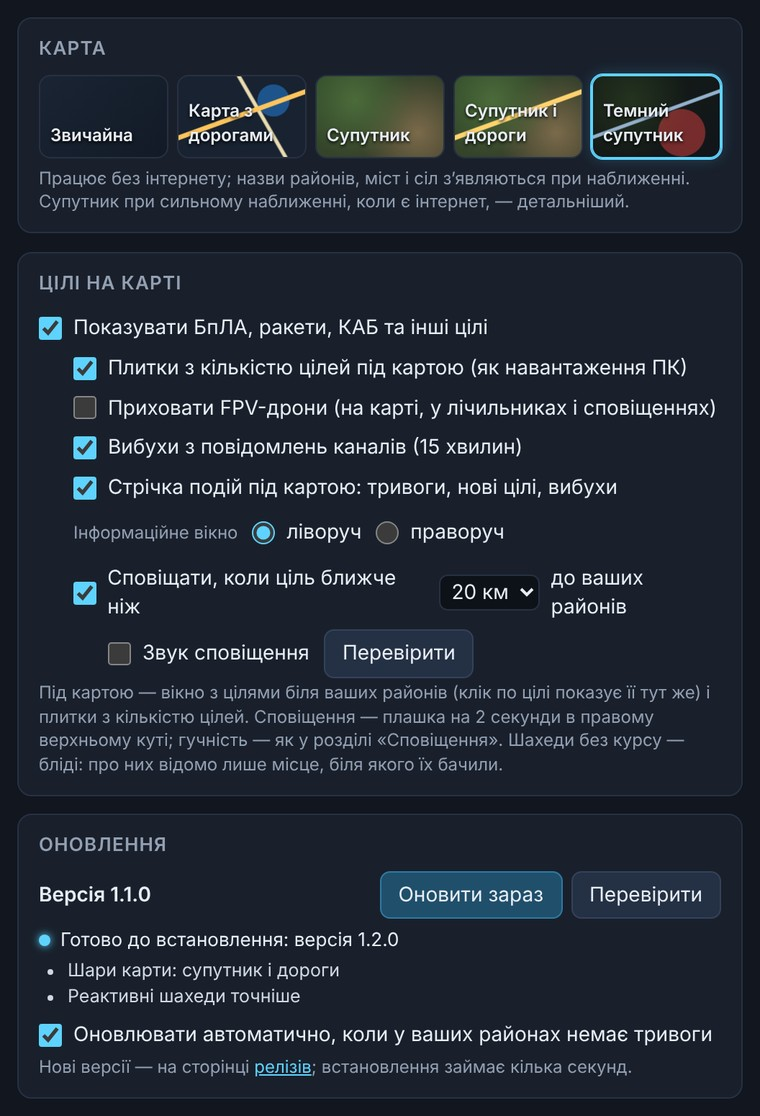
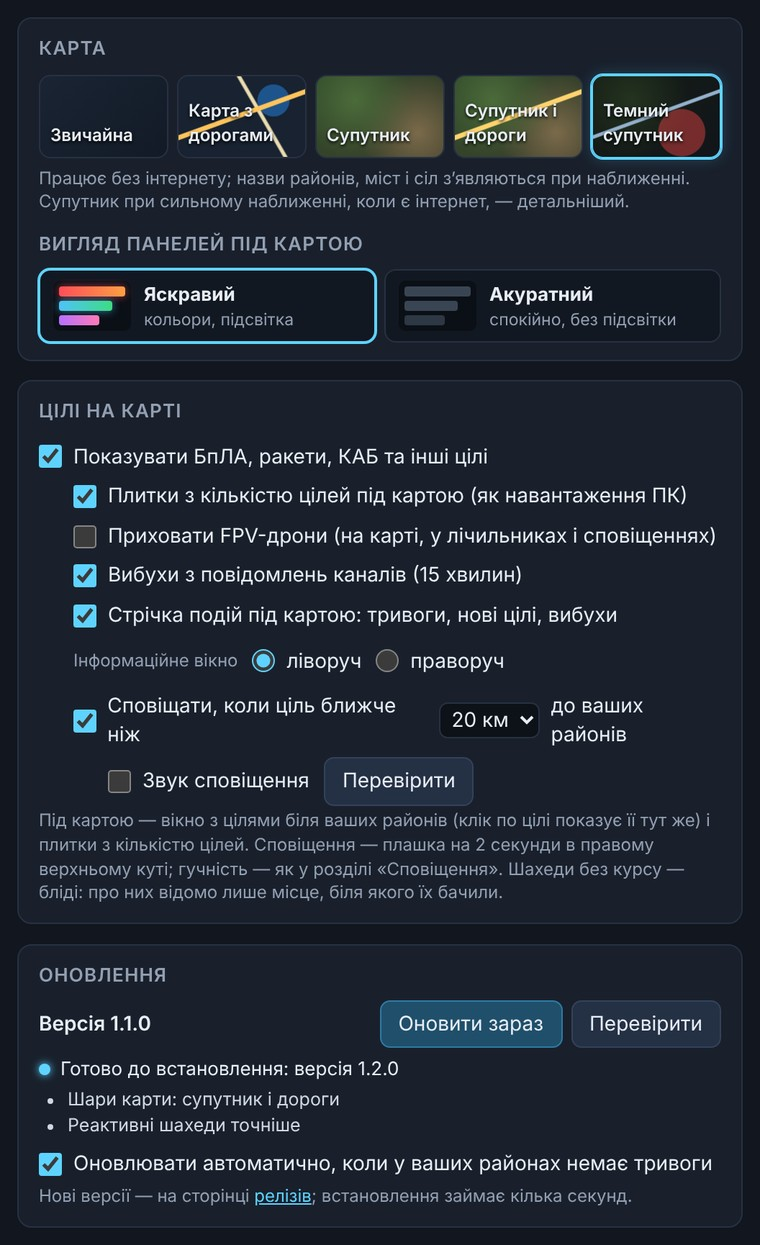
Panels under the map: "Яскравий" or "Акуратний" look
A new choice in Settings → Карта: the bright HUD as before, or a calm one —
one quiet font, flat panels without glow, gradients or coloured edges, white
numbers, one line colour in the sparklines; colour is left to the status
dots, an alert, a high risk and a target close by. Applies to the info
window, the count tiles, the PC tiles, the events line and the tooltips.
Setting neptun.style = 'bright' | 'calm'.

Claude-Session: https://claude.ai/code/session_015jB7h2nFuFP4EwWEfuxPCM

Changed region(s): [[0.0303, 0.0609, 0.9684, 0.9749], [0.0605, 0.0305, 0.1513, 0.0609]]

diff --git a/app/neptun/settings.js b/app/neptun/settings.js
@@ -3,7 +3,11 @@
 // Options are kept in settings.json under
 //   "neptun": { markers, panel, hideFpv, alert, alertKm, alertSound, cardSide, basemap }.
 (function () {
-  const DEFAULTS = { markers: true, panel: true, hideFpv: false, alert: true, alertKm: 20, alertSound: false, cardSide: 'left', basemap: 'none', booms: true, ticker: true };
+  const DEFAULTS = { markers: true, panel: true, hideFpv: false, alert: true, alertKm: 20, alertSound: false, cardSide: 'left', basemap: 'none', booms: true, ticker: true, style: 'bright' };
+  const STYLES = [
+    ['bright', 'Яскравий', 'кольори, підсвітка'],
+    ['calm', 'Акуратний', 'спокійно, без підсвітки'],
+  ];
   const RADII = [5, 10, 20, 50];
   const BASEMAPS = [
     ['none', 'Звичайна'],
@@ -18,7 +22,9 @@
     <h2>Карта</h2>
     <div class="nep-bm">${BASEMAPS.map(([v, t]) => `<label class="nep-bm-${v}"><input type="radio" name="nep-basemap" value="${v}"><span>${t}</span></label>`).join('')}</div>
     <div class="hint">Працює без інтернету; назви районів, міст і сіл з’являються при наближенні. Супутник при сильному
-      наближенні, коли є інтернет, — детальніший.</div>`;
+      наближенні, коли є інтернет, — детальніший.</div>
+    <h2 style="margin-top:12px">Вигляд панелей під картою</h2>
+    <div class="nep-st">${STYLES.map(([v, t, sub]) => `<label class="nep-st-${v}"><input type="radio" name="nep-style" value="${v}"><span class="pv"><i></i><i></i><i></i></span><b>${t}</b><small>${sub}</small></label>`).join('')}</div>`;
   const bmCss = document.createElement('style');
   bmCss.textContent = `
     .nep-bm { display: grid; grid-template-columns: repeat(5, 1fr); gap: 6px; margin-bottom: 6px; }
@@ -27,6 +33,21 @@
     .nep-bm input { position: absolute; opacity: 0; }
     .nep-bm label:has(input:checked) { border-color: var(--accent); box-shadow: 0 0 0 1px var(--accent), 0 0 10px rgba(95,211,255,.25); }
     .nep-bm-none { background: linear-gradient(135deg, #1a2433, #121a26); }
+    .nep-st { display: grid; grid-template-columns: 1fr 1fr; gap: 6px; }
+    .nep-st label { position: relative; display: grid; grid-template-columns: 54px 1fr; grid-template-rows: auto auto; column-gap: 9px;
+      align-items: center; padding: 7px 9px; border-radius: 8px; border: 1px solid var(--line); background: #121822; cursor: pointer; }
+    .nep-st input { position: absolute; opacity: 0; }
+    .nep-st label:has(input:checked) { border-color: var(--accent); box-shadow: 0 0 0 1px var(--accent); }
+    .nep-st .pv { grid-row: span 2; display: flex; flex-direction: column; gap: 3px; padding: 4px; border-radius: 5px; background: #0b1017; }
+    .nep-st .pv i { height: 7px; border-radius: 2px; }
+    .nep-st b { font-size: 13px; }
+    .nep-st small { color: var(--muted); font-size: 11.5px; }
+    .nep-st-bright .pv i:nth-child(1) { background: linear-gradient(90deg, #ff4d57, #ff9f43); box-shadow: 0 0 6px rgba(255,77,87,.6); }
+    .nep-st-bright .pv i:nth-child(2) { background: linear-gradient(90deg, #4fc3f7, #3ddc84); box-shadow: 0 0 6px rgba(79,195,247,.6); width: 80%; }
+    .nep-st-bright .pv i:nth-child(3) { background: linear-gradient(90deg, #b670ff, #ff7ab6); width: 60%; }
+    .nep-st-calm .pv i { background: #3a4554; }
+    .nep-st-calm .pv i:nth-child(2) { width: 80%; }
+    .nep-st-calm .pv i:nth-child(3) { width: 60%; background: #2e3744; }
     .nep-bm-map { background: linear-gradient(160deg, transparent 46%, #ffc45c 47% 50%, transparent 51%), linear-gradient(60deg, transparent 60%, #eadcb0 61% 62.5%, transparent 63.5%), radial-gradient(circle at 75% 30%, #1e548c 0 14%, transparent 15%), #182231; }
     .nep-bm-sat { background: radial-gradient(circle at 30% 30%, #4b6b3a, transparent 55%), radial-gradient(circle at 80% 70%, #7a6a4a, transparent 50%), linear-gradient(135deg, #2f4a2a, #3b3a2a); }
     .nep-bm-dark { background: linear-gradient(160deg, transparent 46%, #93b0cc 47% 49%, transparent 50%), radial-gradient(circle at 70% 70%, rgba(239,68,68,.45) 0 22%, transparent 23%), radial-gradient(circle at 30% 30%, #24331f, transparent 55%), linear-gradient(135deg, #161d16, #11151a); }
@@ -62,6 +83,7 @@
   document.querySelector('main').insertBefore(section, before || null);
   document.querySelector('main').insertBefore(mapSection, section);
   const basemaps = [...mapSection.querySelectorAll('input[name=nep-basemap]')];
+  const styles = [...mapSection.querySelectorAll('input[name=nep-style]')];
 
   const q = (id) => section.querySelector('#nep-' + id);
   const checks = ['markers', 'panel', 'hideFpv', 'booms', 'ticker', 'alert', 'alertSound'];
@@ -85,6 +107,7 @@
     km.value = String(RADII.includes(current.alertKm) ? current.alertKm : DEFAULTS.alertKm);
     for (const r of sides) r.checked = r.value === current.cardSide;
     for (const r of basemaps) r.checked = r.value === current.basemap;
+    for (const r of styles) r.checked = r.value === current.style;
     sync();
   }
 
@@ -98,6 +121,7 @@
   km.addEventListener('change', () => save({ alertKm: Number(km.value) }));
   for (const r of sides) r.addEventListener('change', () => save({ cardSide: r.value }));
   for (const r of basemaps) r.addEventListener('change', () => save({ basemap: r.value }));
+  for (const r of styles) r.addEventListener('change', () => save({ style: r.value }));
 
   q('test').addEventListener('click', () => {
     if (!window.bridge.neptun) return;

diff --git a/app/neptun/widget.css b/app/neptun/widget.css
@@ -470,3 +470,78 @@ body.no-labels #nep-base-names { display: none; }
 #nep-ticker .tk-it b { font-weight: 600; color: color-mix(in srgb, var(--c) 55%, #fff); }
 #nep-ticker .tk-it em { font-style: normal; color: var(--h-steel); }
 #nep-ticker .tk-it.quiet { color: var(--h-steel); }
+
+/* ---------- "Акуратний" style of everything under the map (settings: neptun.style = 'calm') ----------
+   One quiet font, flat panels, no glow, gradients or coloured edges; colour is left to the status dots,
+   an alert and a target close by. */
+body.nep-calm {
+  --h-num: 'Fira Sans Condensed', 'Segoe UI', sans-serif;
+  --h-line: rgba(255, 255, 255, 0.08);
+  --calm-panel: rgba(13, 17, 24, 0.84);
+  --calm-ink: #e3e9f0;
+  --calm-text: #c4cdd8;
+}
+body.nep-calm .h-pan {
+  background: var(--calm-panel);
+  box-shadow: 0 4px 14px rgba(0, 0, 0, 0.28);
+  backdrop-filter: blur(8px);
+}
+body.nep-calm .nep-region, body.nep-calm .nep-targets { box-shadow: 0 4px 14px rgba(0, 0, 0, 0.28); }
+body.nep-calm .nep-region .h-head, body.nep-calm .nep-targets .h-head { background: none; }
+body.nep-calm .h-head .h-ico, body.nep-calm .nep-region .h-head > .h-ico, body.nep-calm .nep-targets .h-head > .h-ico { color: var(--h-steel); }
+body.nep-calm .h-title { font-weight: 600; font-size: 12.5px; letter-spacing: 0; }
+body.nep-calm .h-count { background: rgba(255, 255, 255, 0.1); color: var(--calm-ink); font-weight: 600; }
+body.nep-calm .nep-targets[data-near='1'] .h-count { background: rgba(255, 159, 67, 0.22); color: #ffc58f; }
+body.nep-calm .h-live i.live { box-shadow: none; }
+
+/* badges: plain values with a grey icon */
+body.nep-calm .h-b {
+  --bc: var(--calm-text);
+  background: transparent;
+  border-color: rgba(255, 255, 255, 0.09);
+  color: var(--calm-text);
+  font-weight: 500;
+}
+body.nep-calm .h-b .h-ico { color: var(--h-steel); }
+body.nep-calm .h-b small { color: var(--h-steel); }
+body.nep-calm .h-st { color: var(--calm-ink); background: transparent; border-color: rgba(255, 255, 255, 0.09); }
+body.nep-calm .h-st::before { box-shadow: none; }
+body.nep-calm .h-st.hit, body.nep-calm .h-st.alert { color: #ff8a8f; }
+body.nep-calm .h-b.jet { color: #ff9a8a; }
+body.nep-calm .h-b.note { color: var(--calm-text); }
+
+/* entries: a thin red edge only for a target that is a real risk */
+body.nep-calm .h-ent { border-left-color: transparent; }
+body.nep-calm .h-ent.r2 { border-left: 2px solid rgba(255, 77, 87, 0.75); }
+body.nep-calm .h-ent:hover { background: rgba(255, 255, 255, 0.04); transform: none; }
+body.nep-calm .h-ent-ico { background: transparent; border-color: rgba(255, 255, 255, 0.1); color: color-mix(in srgb, var(--c) 55%, #9aa7b8); }
+body.nep-calm .h-ent-name, body.nep-calm .h-v .h-tname { color: var(--calm-ink); }
+body.nep-calm .h-ent-name em { color: var(--calm-text); }
+body.nep-calm .h-risk .seg i { box-shadow: none !important; }
+body.nep-calm .h-risk.l0 { --rc: #8fd4a8; }
+body.nep-calm .h-risk.l1 { --rc: #e8cf7a; }
+
+/* count tiles and the PC tiles: flat, white numbers, one quiet line colour */
+body.nep-calm .nep-tile, body.nep-calm #sys > .tile {
+  border: 1px solid rgba(255, 255, 255, 0.07);
+  background: var(--calm-panel);
+  box-shadow: 0 3px 10px rgba(0, 0, 0, 0.25);
+}
+body.nep-calm .nep-tile:hover, body.nep-calm #sys > .tile:hover { transform: none; box-shadow: 0 3px 10px rgba(0, 0, 0, 0.25); border-color: rgba(255, 255, 255, 0.16); }
+body.nep-calm .nep-tn, body.nep-calm #sys .tile .v { color: var(--calm-ink); text-shadow: none; font-weight: 600; }
+body.nep-calm .nep-tn { font-size: 17px; }
+body.nep-calm .nep-tl .h-ico { color: var(--h-steel); }
+body.nep-calm .nep-spark, body.nep-calm #sys .tile .spark { border-color: rgba(255, 255, 255, 0.08); background: rgba(0, 0, 0, 0.22); }
+body.nep-calm .nep-spark .area, body.nep-calm #sys .tile .spark .area { fill: rgba(143, 180, 216, 0.18); }
+body.nep-calm .nep-spark .line, body.nep-calm #sys .tile .spark .line, body.nep-calm #sys .tile .spark .line2 { stroke: #8fb4d8; }
+body.nep-calm .nep-tile.hot { animation: none; border-color: rgba(255, 159, 67, 0.45); }
+body.nep-calm .nep-tile.hot .nep-tn { color: #ffc58f; }
+body.nep-calm #sys .tile.hot .v { color: #ff8a8f; }
+
+/* events line and tooltips */
+body.nep-calm #nep-ticker .tk-head i { box-shadow: none; animation: none; }
+body.nep-calm #nep-ticker .tk-it i { box-shadow: none; width: 6px; height: 6px; }
+body.nep-calm #nep-ticker .tk-it b { color: var(--calm-ink); }
+body.nep-calm #nep-tip { border-left-color: rgba(255, 255, 255, 0.18) !important; }
+body.nep-calm #nep-tip .tt-sr b { color: #a9c7e2; }
+body.nep-calm .nep-targets .h-title { color: var(--calm-ink) !important; }

diff --git a/app/neptun/widget.js b/app/neptun/widget.js
@@ -12,7 +12,7 @@
   const ipc = bridge.neptun || null; // preload.js hook; without it there is no banner
   // Projection of app/assets/map.json (see build/make-map.js), for a map.json without "proj".
   const DEFAULT_PROJ = { lat1: 45, lat2: 51, lat0: 48.5, lon0: 31.5, x0: -690178, y1: 432316, k: 0.000755630581276381 };
-  const DEFAULTS = { markers: true, panel: true, hideFpv: false, alert: true, alertKm: 20, alertSound: false, cardSide: 'left', booms: true, ticker: true };
+  const DEFAULTS = { markers: true, panel: true, hideFpv: false, alert: true, alertKm: 20, alertSound: false, cardSide: 'left', booms: true, ticker: true, style: 'bright' };
   const BADGE_PX = 9; // marker radius on screen
   const CLUSTER_PX = 15; // markers closer than this on screen become one "×N" marker
   const EDGE_PAD_PX = 13; // targets beyond the visible map are pinned this far inside its edge
@@ -1452,6 +1452,7 @@
   function applySettings(s) {
     const prev = opts;
     opts = { ...DEFAULTS, ...((s && s.neptun) || {}) };
+    document.body.classList.toggle('nep-calm', opts.style === 'calm'); // "Акуратний" look under the map
     if (s && Number.isFinite(s.volume)) volume = s.volume;
     mine = ((s && s.regions) || []).map((uid) => shapeIndex.get(Number(uid))).filter(Boolean);
     const zoomBar = $('nep-zoom');

diff --git a/README.md b/README.md
@@ -26,7 +26,7 @@
 | 🎯 **Що біля вас** | Під картою вікно з цілями поруч із вашими районами: відстань, напрямок, ETA і ризик. Клік по цілі відкриває її картку. |
 | 🔔 **Тихі сповіщення** | Плашка на 2 секунди при тривозі, відбої та коли ціль ближче ніж 5 / 10 / 20 / 50 км. Напівпрозора, крізь неї проходять кліки, звук за бажанням. |
 | 🛰 **Супутник і дороги** | П’ять підкладок: звичайна, карта з дорогами, супутник, супутник із дорогами, темний супутник. Працюють **без інтернету**. Зум до 40× кнопками, колесом і тачпадом. При наближенні з’являються назви районів, міст і сіл, а з інтернетом — детальний супутник. |
-| 📊 **Плитки й навантаження ПК** | Кількість цілей за типами з графіком за 30 хвилин. Поруч ЦП, пам’ять, диски, мережа та відеокарта, як у Диспетчері завдань. |
+| 📊 **Плитки й навантаження ПК** | Кількість цілей за типами з графіком за 30 хвилин. Поруч ЦП, пам’ять, диски, мережа та відеокарта, як у Диспетчері завдань. Вигляд — «Яскравий» або «Акуратний», без підсвітки. |
 | ⚡ **Оновлюється сам** | Нові версії приходять з GitHub і встановлюються за кілька секунд, коли у ваших районах немає тривоги. |
 | 🪶 **Не заважає** | Прозорий фон: живе на робочому столі над ярликами або під ними, як шпалери. Кліки повз карту проходять крізь неї. |
 

diff --git a/app/neptun/PROMPT.md b/app/neptun/PROMPT.md
@@ -112,6 +112,9 @@
 18. **Лента событий** (`ticker.js`) между картой и окошком: тревоги и отбои по IoT-строке alerts.in.ua (область целиком
     или её районы, «+N»), новые цели (по виду и области, источник — канал из `intel.sources()` или NEPTUN), взрывы.
     Формат «час · подія · район, область — джерело», бежит, при наведении стоит.
+20. **Вид панелей под картой** (`neptun.style`): «Яскравий» (как было) или «Акуратний» — класс `nep-calm` у `body`:
+    один шрифт, плоские панели без свечения, градиентов и цветных краёв; цвет — только у точек статуса, тревоги и цели
+    рядом. Стили — в конце `widget.css`.
 19. **Названия во всех режимах подложки**, зум до 40× (колесо пропорционально, тачпад и щипок плавно, кнопки
     с анимацией), «Темний супутник», детальный спутник EOX онлайн при сильном зуме (плитки Меркатора ставятся
     аффинным преобразованием по углам, обрезаны по контуру Украины).

diff --git a/app/neptun/README.md b/app/neptun/README.md
@@ -102,7 +102,7 @@
 Розділи «Карта» і «Цілі на карті» у вікні налаштувань. Значення — у `%APPDATA%\trevoga-map\settings.json`:
 
 ```json
-"neptun": { "markers": true, "panel": true, "hideFpv": false, "alert": true, "alertKm": 20, "alertSound": false, "cardSide": "left", "basemap": "none", "booms": true, "ticker": true }
+"neptun": { "markers": true, "panel": true, "hideFpv": false, "alert": true, "alertKm": 20, "alertSound": false, "cardSide": "left", "basemap": "none", "booms": true, "ticker": true, "style": "bright" }
 ```
 
 | Ключ | Що означає |
@@ -117,6 +117,7 @@
 | `basemap` | Підкладка: `none`, `map` (дороги), `sat` (супутник), `hybrid` (супутник і дороги), `dark` (темний супутник); працює й з вимкненими цілями |
 | `booms` | Вибухи з постів каналів на карті |
 | `ticker` | Стрічка подій під картою |
+| `style` | Вигляд панелей під картою: `bright` (яскравий) або `calm` (акуратний: один шрифт, без підсвітки й градієнтів, колір — лише в статусах) |
 
 ## Файли
 

diff --git a/CHANGELOG.md b/CHANGELOG.md
@@ -10,6 +10,7 @@
 - Нова підкладка «Темний супутник»; детальніший супутник при сильному наближенні (з інтернетом).
 - Реактивні — лише коли так пишуть Повітряні Сили або кілька каналів, як на карті NEPTUN.
 - Траєкторія — лише для цілі, на яку клікнули; шахеди без курсу видно на карті (бліді).
+- Вигляд панелей під картою на вибір: «Яскравий» або «Акуратний» (спокійно, без підсвітки).
 
 ## 1.1.0
 
